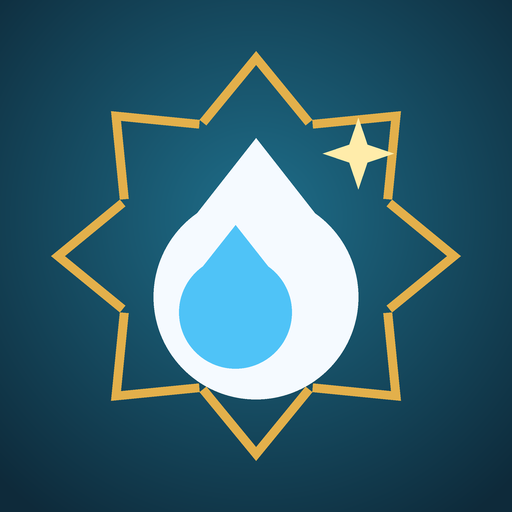
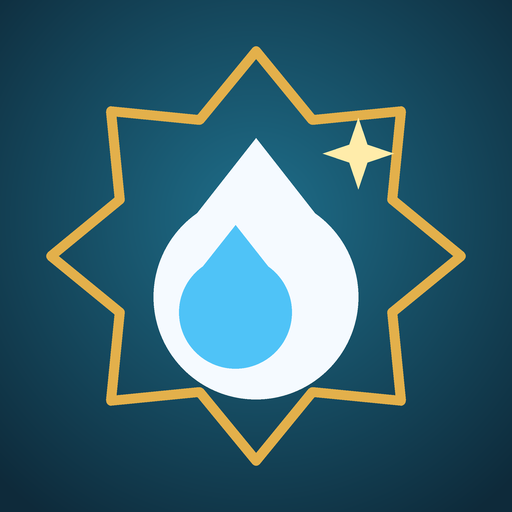
المرحلة 4: صفحة Play Store
- store/icon-512.png (إصلاح زوايا النجمة) و store/feature-1024x500.png
- 8 لقطات شاشة 1920×1080 بالعربية (store/screenshots/)
- store/LISTING.md: الاسم والوصف القصير والكامل بالعربية والفرنسية والإنجليزية،
  كلمات مفتاحية، إجابات Data safety و Content rating والجمهور المستهدف
- إصلاح: إطار النافذة الخلفية ولافتة النقل المدرسي كانا يطفوان خارج الحافلة

Claude-Session: https://claude.ai/code/session_01S2QUt6wBV58jXuFdCBzgd3

Changed region(s): [[0.0938, 0.0938, 0.9062, 0.9062]]

diff --git a/src/vehicles/bus.ts b/src/vehicles/bus.ts
@@ -59,8 +59,8 @@ export function buildBus(): Model {
       panes.push([new RoundedBoxGeometry(x0 - x1, 0.72, 0.02, 2, 0.05), S([(x0 + x1) / 2, 2.0, sz * 3], [0, 0, -sz], 0.012)]);
     }
   }
-  frames.push([new RoundedBoxGeometry(1.7, 0.82, 0.02, 2, 0.08), S([-5, 2.02, 0], [1, 0, 0], 0.004)]);
-  panes.push([new RoundedBoxGeometry(1.56, 0.7, 0.02, 2, 0.06), S([-5, 2.02, 0], [1, 0, 0], 0.012)]);
+  frames.push([new RoundedBoxGeometry(1.7, 0.82, 0.02, 2, 0.08), S([-5, 2.02, 0.02], [1, 0, 0], 0.004)]);
+  panes.push([new RoundedBoxGeometry(1.56, 0.7, 0.02, 2, 0.06), S([-5, 2.02, 0.02], [1, 0, 0], 0.012)]);
   kit.group('window-frames', plastic(0x0b0c0e, 0.35), { mud: 0.3, seed: 8 }, frames);
   kit.group('windows', glass(), { mud: 0.4, dust: 1, seed: 10 }, panes);
 
@@ -78,7 +78,7 @@ export function buildBus(): Model {
     [new RoundedBoxGeometry(1.0, 0.24, 0.03, 2, 0.02), S([5, 0.82, 0], [-1, 0, 0])],
   ]);
   kit.setSurface(body, glassMesh);
-  kit.decal(frontText(), 1.3, 0.24, S([5, 2.6, 0], [-1, 0, 0], 0.012), false);
+  kit.decal(frontText(), 1.3, 0.24, S([5, 2.6, 0.02], [-1, 0, 0], 0.012), false);
   kit.setSurface(body);
   // الكسوة السوداء: صدّامان، جوانب
   const clad: Item[] = [

diff --git a/src/main.ts b/src/main.ts
@@ -379,7 +379,7 @@ function frame() {
   requestAnimationFrame(frame);
   initAds();
   (window as any).__game = {
-    get buildMs() { return buildMs; }, get volume() { return model.volume; }, player, input, save,
+    get buildMs() { return buildMs; }, get volume() { return model.volume; }, player, input, save, applyLang,
     get clean() { return clean; }, startLevel: (i: number) => startLevel(LEVELS[i]),
   };
 })();

diff --git a/tools/make_icons.py b/tools/make_icons.py
@@ -43,7 +43,14 @@ def logo(size, transparent=False, scale=1.0):
     d = ImageDraw.Draw(img)
     c = S / 2
     k = scale
-    star8(d, c, c, S * 0.40 * k, outline=(227, 176, 75, 255), width=int(S * 0.018 * k))
+    # إطار النجمة الثمانية بزوايا متّصلة (بدون فراغات)
+    r, w = S * 0.40 * k, int(S * 0.02 * k)
+    pts = []
+    for i in range(16):
+        a = math.pi * i / 8 - math.pi / 2
+        rr = r if i % 2 == 0 else r * 0.72
+        pts.append((c + rr * math.cos(a), c + rr * math.sin(a)))
+    d.line(pts + pts[:2], fill=(227, 176, 75, 255), width=w, joint='curve')
     drop(d, c, c + S * 0.08 * k, S * 0.2 * k, (245, 250, 255, 255))
     drop(d, c - S * 0.04 * k, c + S * 0.11 * k, S * 0.11 * k, (79, 195, 247, 255))
     # لمعة

diff --git a/store/LISTING.md b/store/LISTING.md
@@ -1,0 +1,207 @@
+# صفحة Play Store — Lavage Mobile
+
+كل ما يلزم لملء صفحة المتجر في Play Console. الصور في نفس المجلد `store/`.
+
+## الصور
+| العنصر | الملف | المقاس |
+|---|---|---|
+| أيقونة التطبيق | `store/icon-512.png` | 512×512 PNG |
+| الصورة المميّزة (Feature graphic) | `store/feature-1024x500.png` | 1024×500 PNG |
+| لقطات الهاتف (Phone screenshots) | `store/screenshots/01.jpg` إلى `06.jpg` (و 07، 08 احتياطيتان) | 1920×1080 |
+
+ترتيب اللقطات: 01 شاشة البداية · 02 الطاكسي الصغير · 03 الطاكسي الكبير بالصابون · 04 النقل المدرسي · 05 الرموك · 06 المتجر · (07 المهمّات · 08 الكاميو).
+
+## الإعدادات العامة
+- **الفئة (Category):** Game ← Simulation
+- **الوسوم (Tags):** Simulation, Casual, Cleaning (اختر الأقرب في القائمة)
+- **البريد للتواصل:** بريدك (يضعه صاحب الحساب)
+- **سياسة الخصوصية:** https://maghouchiyoussef.github.io/souk-wash/privacy-policy.html
+
+---
+
+## العربية (ar) — اللغة الافتراضية
+
+**الاسم (30 حرفًا كحد أقصى):**
+```
+Lavage Mobile: غسيل السيارات
+```
+
+**الوصف القصير (80 حرفًا كحد أقصى):**
+```
+نظّف الطاكسي والحافلة والكاميو بالماء المضغوط حتى يلمعو! لعبة غسيل مغربية 3D
+```
+
+**الوصف الكامل:**
+```
+🚿 Lavage Mobile — لعبة غسيل بالماء المضغوط بهوية مغربية!
+
+خذ الرشّاش واخدم «لافاج موبيل» في الحومة: كل مهمّة مركبة متّسخة بالغبار والطين والصدأ، ونتا خصّك تخلّيها تلمع ✨
+
+🚕 5 مهمّات مغربية:
+• الطاكسي الصغير — في الگراج
+• الطاكسي الكبير — في زنقة الحومة
+• النقل المدرسي — أمام المدرسة
+• الكاميو — في محطة الوقود
+• الرموك — أمام المستودع
+
+💦 إحساس مريح وممتع:
+• الوسخ كيتمسح فين ما كيضرب الماء
+• لمعة وصوت «تشينغ» واهتزاز خفيف ملّي كيتنقّى كل جزء
+• عدّاد النظافة من 0% حتى 100%
+• زر «مسح» كيبيّن ليك فين بقى الوسخ
+
+🛒 المتجر:
+• صابون الرغوة: كيذوّب الطين والصدأ، ومن بعد كتشطفو بالماء
+• ترقيات الضغط حتى +120%
+• رأس التوربو: قوي وعريض فنفس الوقت
+
+⭐ اربح الدراهم والنجوم حسب السرعة، وفتح المهمّات وحدة بوحدة.
+
+🎮 تحكّم سهل باللمس: جويستيك للمشي، سحب للنظر، وزر كبير للرش.
+🌍 العربية والفرنسية والإنجليزية.
+📴 كتلعب بلا حساب، والتقدّم ديالك كيتحفظ فالتيليفون.
+
+لعبة مجانية فيها إعلانات.
+```
+
+---
+
+## Français (fr-FR)
+
+**Nom :**
+```
+Lavage Mobile : Nettoyage 3D
+```
+
+**Description courte :**
+```
+Lavez taxis, bus et camions à haute pression jusqu’à ce qu’ils brillent ! 3D
+```
+
+**Description complète :**
+```
+🚿 Lavage Mobile — un simulateur de nettoyage haute pression à l’ambiance marocaine !
+
+Prenez le pistolet et faites briller les véhicules du quartier : poussière, boue et rouille, tout doit disparaître ✨
+
+🚕 5 missions :
+• Le petit taxi — au garage
+• Le grand taxi — dans une rue du quartier
+• Le transport scolaire — devant l’école
+• Le camion — à la station-service
+• La semi-remorque — devant le dépôt
+
+💦 Satisfaisant et relaxant :
+• La saleté s’efface là où touche le jet
+• Éclat, son « tching » et légère vibration à chaque pièce propre
+• Compteur de propreté de 0 % à 100 %
+• Bouton « Scanner » pour voir les zones encore sales
+
+🛒 Boutique :
+• Savon moussant : dissout boue et rouille, puis rincez
+• Améliorations de pression jusqu’à +120 %
+• Buse turbo : puissante et large
+
+⭐ Gagnez des dirhams et des étoiles selon votre rapidité et débloquez les missions.
+
+🎮 Commandes tactiles simples : joystick, glisser pour regarder, gros bouton pour arroser.
+🌍 Arabe, français et anglais.
+📴 Sans compte : votre progression reste sur votre téléphone.
+
+Jeu gratuit avec publicités.
+```
+
+---
+
+## English (en-US)
+
+**Name:**
+```
+Lavage Mobile: Car Wash 3D
+```
+
+**Short description:**
+```
+Pressure-wash taxis, buses and trucks until they shine! Moroccan 3D cleaning
+```
+
+**Full description:**
+```
+🚿 Lavage Mobile — a relaxing pressure-washing simulator with a Moroccan twist!
+
+Grab the pressure washer and make the neighborhood’s vehicles shine: dust, mud and rust must all go ✨
+
+🚕 5 jobs:
+• Petit taxi — in the garage
+• Grand taxi — on a neighborhood street
+• School bus — in front of a private school
+• Truck — at the fuel station
+• Semi-truck — in front of the depot
+
+💦 Satisfying and relaxing:
+• Dirt washes away exactly where the water hits
+• A shine, a “ching” sound and a soft vibration for every clean part
+• Cleanliness meter from 0% to 100%
+• “Scan” button reveals the dirt you missed
+
+🛒 Shop:
+• Foam soap: dissolves mud and rust, then rinse
+• Pressure upgrades up to +120%
+• Turbo nozzle: powerful and wide
+
+⭐ Earn dirhams and stars based on your speed and unlock new jobs.
+
+🎮 Simple touch controls: joystick to walk, drag to look, big button to spray.
+🌍 Arabic, French and English.
+📴 No account needed — your progress stays on your phone.
+
+Free to play, contains ads.
+```
+
+### كلمات مفتاحية (لا يوجد حقل خاص في Play؛ هي موزّعة داخل الأوصاف أعلاه)
+غسيل السيارات، لافاج، رشّاش، ماء مضغوط، طاكسي، كاميو، تنظيف، لعبة مغربية ·
+lavage, nettoyage, haute pression, taxi, camion, simulateur ·
+pressure washer, car wash, cleaning simulator, satisfying, taxi, truck
+
+---
+
+## Data safety (أمان البيانات) — الإجابات
+
+**هل يجمع التطبيق أو يشارك أيًّا من أنواع بيانات المستخدم المطلوبة؟** نعم (بسبب Google AdMob).
+**هل كل البيانات مشفّرة أثناء النقل؟** نعم.
+**هل توفّر طريقة لطلب حذف البيانات؟** لا (لا نخزّن بيانات على خوادمنا؛ التقدّم على الهاتف فقط).
+
+| نوع البيانات | مجموعة؟ | مشاركة؟ | اختياري؟ | الأغراض |
+|---|---|---|---|---|
+| الموقع ← الموقع التقريبي (Approximate location) | نعم | نعم | مطلوب | الإعلانات، منع الاحتيال والأمان |
+| معلومات التطبيق والأداء ← سجلّات الأعطال (Crash logs) | نعم | نعم | مطلوب | التحليلات، الإعلانات |
+| معلومات التطبيق والأداء ← التشخيص (Diagnostics) | نعم | نعم | مطلوب | التحليلات، الإعلانات |
+| نشاط التطبيق ← التفاعل مع التطبيق (App interactions) | نعم | نعم | مطلوب | الإعلانات، التحليلات |
+| المعرّفات ← معرّف الجهاز أو غيره (Device or other IDs) | نعم | نعم | مطلوب | الإعلانات، التحليلات، منع الاحتيال |
+
+- **هل تُعالَج البيانات بشكل مؤقّت فقط (ephemeral)؟** لا.
+- لا شيء آخر: لا اسم، لا بريد، لا صور، لا رسائل، لا جهات اتصال، لا مشتريات.
+
+---
+
+## Content rating (تصنيف المحتوى) — استبيان IARC
+
+- **البريد:** بريدك · **الفئة:** Game (لعبة)
+- العنف: لا · الخوف/الرعب: لا · المحتوى الجنسي: لا · العُري: لا
+- اللغة البذيئة: لا · المخدّرات/الكحول/التبغ: لا
+- القمار أو المراهنات أو محاكاة القمار: لا
+- تفاعل المستخدمين / الدردشة / مشاركة المحتوى: لا
+- مشاركة موقع المستخدم الدقيق مع مستخدمين آخرين: لا
+- مشتريات رقمية داخل التطبيق: لا
+- **يحتوي على إعلانات:** نعم
+- **التصنيف المتوقّع:** PEGI 3 / ESRB Everyone / IARC 3+
+
+---
+
+## Ads (الإعلانات) — في App content
+- يحتوي التطبيق على إعلانات: **نعم**.
+
+## Target audience (الجمهور المستهدف)
+- 13–15، 16–17، 18+ (بدون فئات أقل من 13).
+- «هل يمكن أن يجذب التطبيق الأطفال عن غير قصد؟» ← أجب بصدق. إذا اخترت «نعم» قد يطلب Google
+  مراجعة إضافية (سياسة العائلات)، وقد يلزم حينها تعديل الإعلانات. اسألني قبل الإجابة إن لم تكن متأكدًا.
